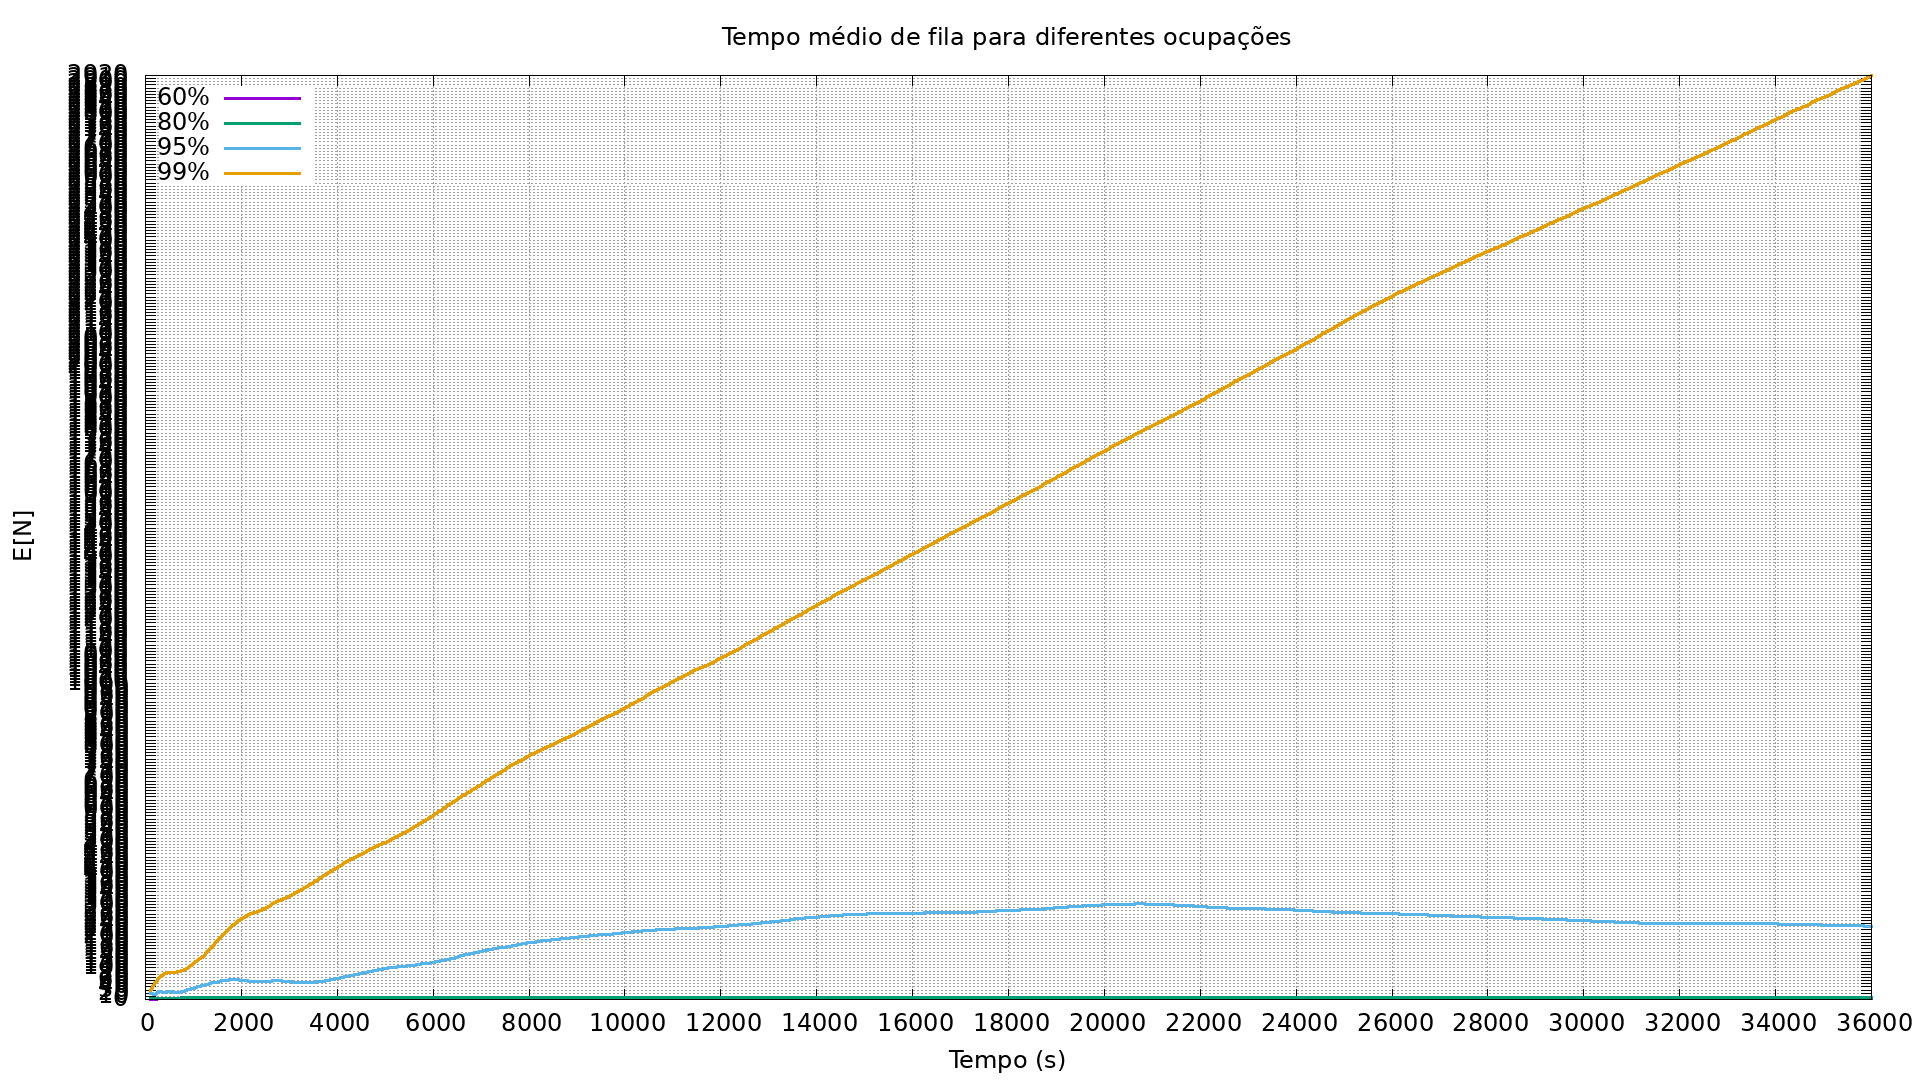
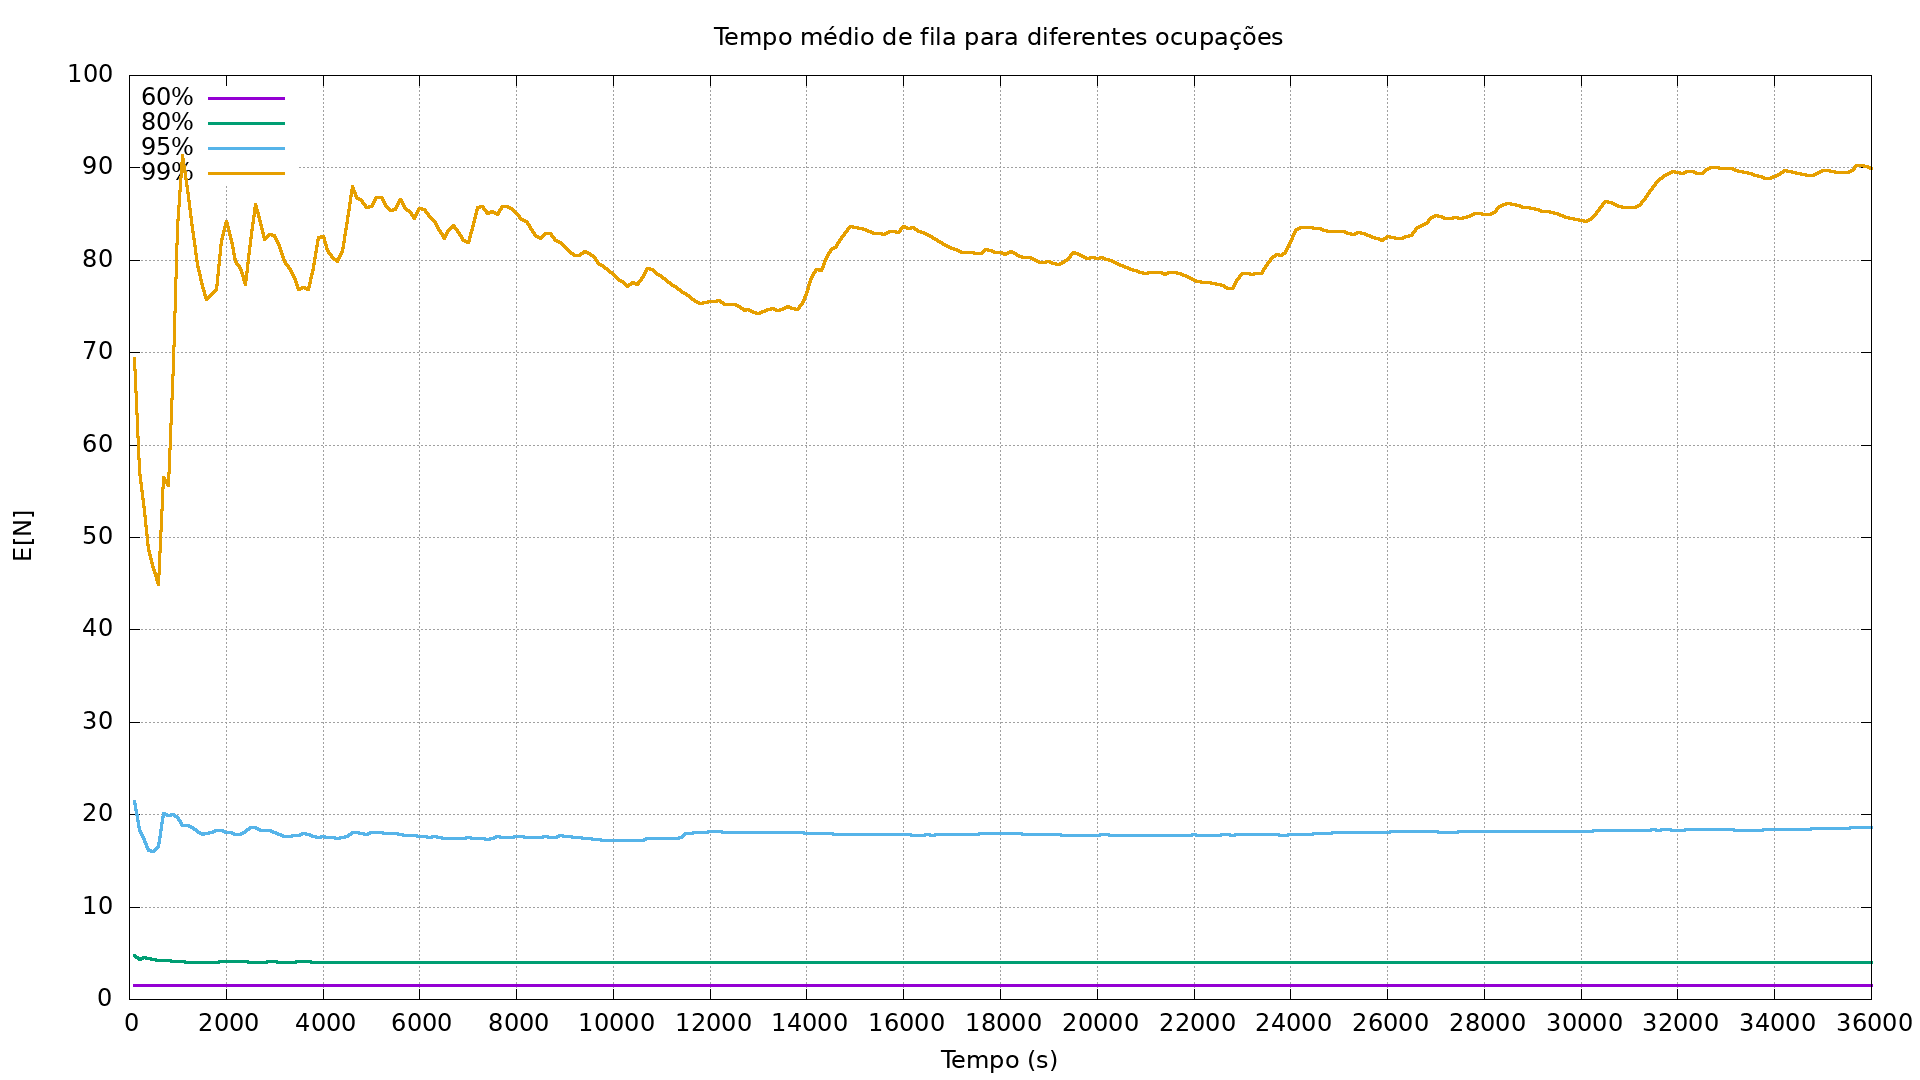
bugfix: gráfico com dimensão corrigida

Changed region(s): [[0.0312, 0.0306, 0.9688, 1.0]]

diff --git a/Simulador 2 - Parte 1/simulacao.c b/Simulador 2 - Parte 1/simulacao.c
@@ -440,7 +440,7 @@ void main()
 
     // Criando gráficos
     cria_grafico(graficos, "Tempo médio de fila para diferentes ocupações", "E[N]", "Tempo (s)", 2000, 10, "E[N]", "left top");
-    cria_grafico(graficos, "Tempo médio de espera para diferentes ocupações", "E[W]", "Tempo (s)", 2000, 2, "E[W]", "left top");
+    cria_grafico(graficos, "Tempo médio de espera para diferentes ocupações", "E[W]", "Tempo (s)", 2000, 0.1, "E[W]", "left top");
     cria_grafico(graficos, "Ocupações conforme o tempo", "Ocupacao", "Tempo (s)", 2000, 0.025, "Ocupacao", "right bot");
-    cria_grafico(graficos, "Erro de Little para diferentes ocupações", "Little", "Tempo (s)", 2000, 0.0000000004, "Little", "left top");
+    cria_grafico(graficos, "Erro de Little para diferentes ocupações", "Little", "Tempo (s)", 2000, 0.0000000090, "Little", "left top");
 }
